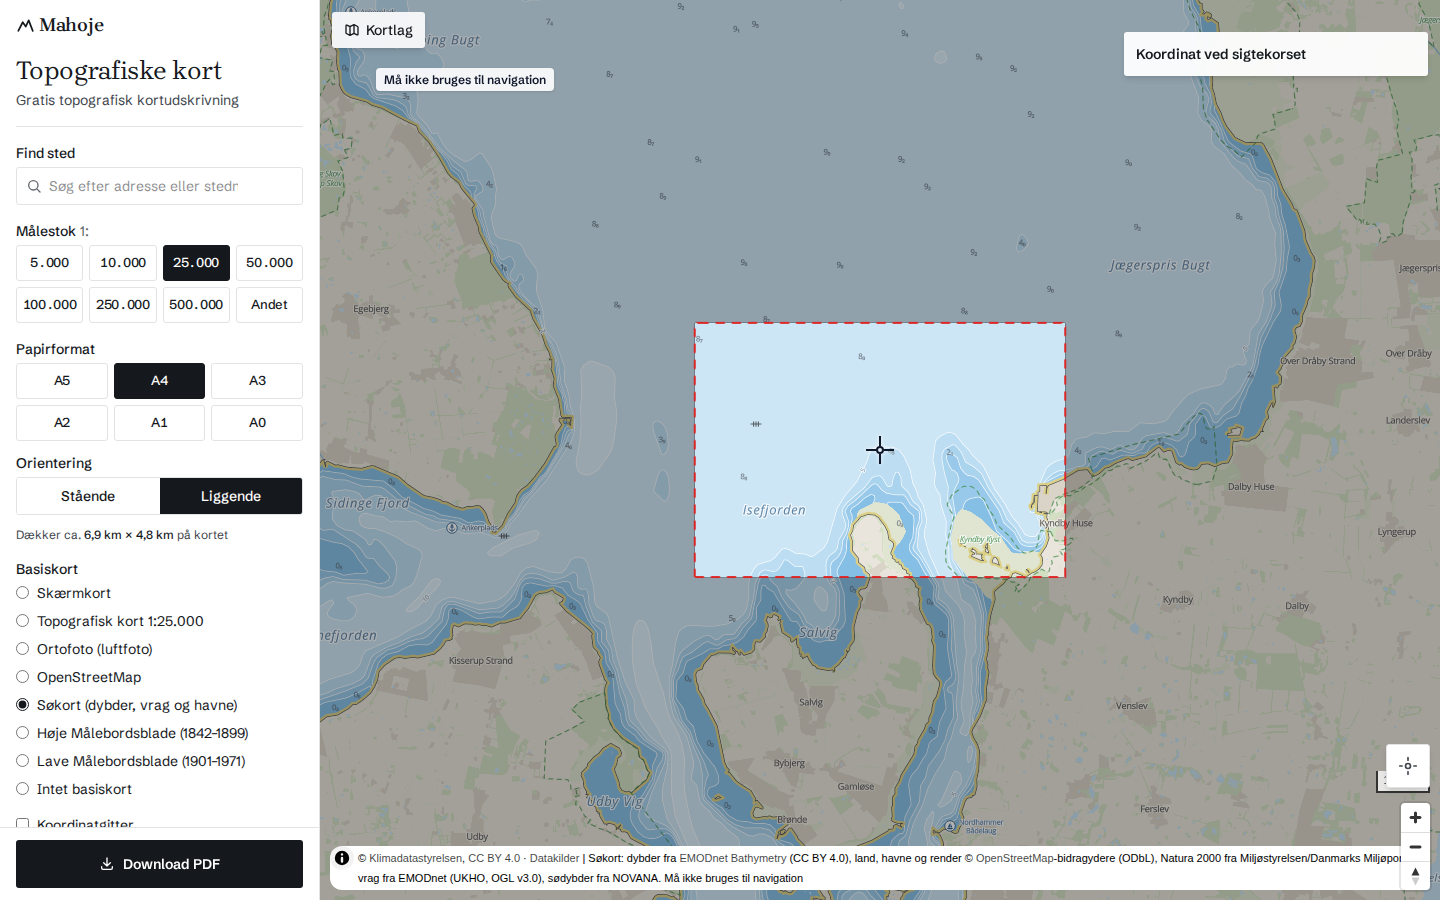
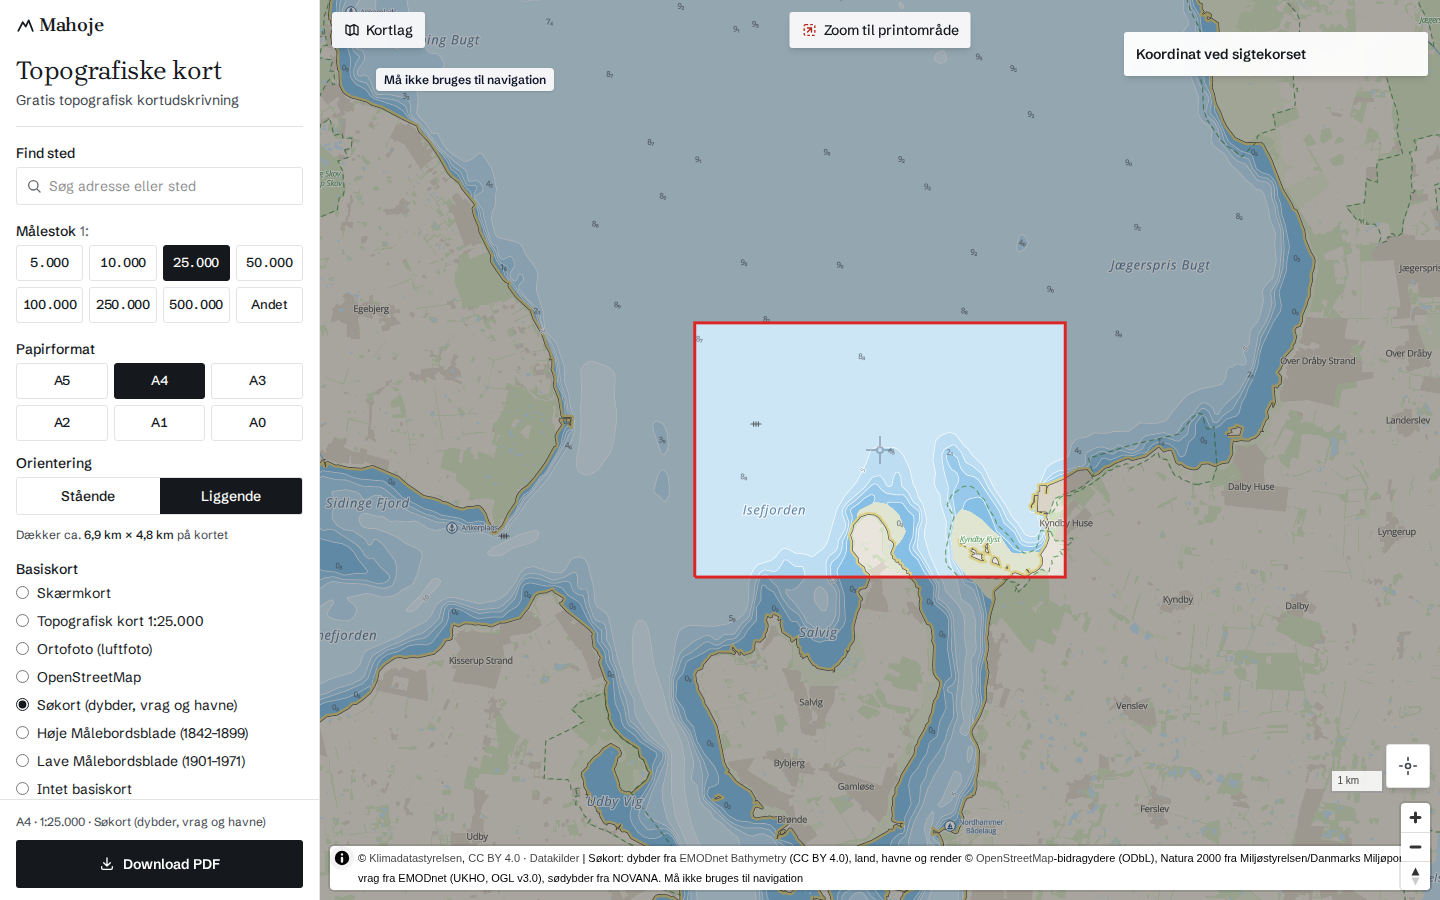
Ret tomme hjørner i dybderasteret og udvid land til nabokysterne
gdalwarp fyldte hjørnerne uden for EMODnet-udtrækket med 0 m, så de blev
gjort til lavt vand og gav en blå stribe ved 58° N. De er nu nodata. Land
og kyst går en grad længere ud, så Sverige og Tyskland er land, når kortet
flyttes forbi dybderne. Skærmbillederne er taget med de nye tiles.

diff --git a/scripts/soekort-vektor/bathy.py b/scripts/soekort-vektor/bathy.py
@@ -66,8 +66,9 @@ def main() -> None:
         elev[elev == nodata] = np.nan
 
     water = ~land
-    # Sea by OSM but land (or nothing) by the model: a shallow fringe.
-    fix = water & ~(elev < -0.05)
+    # Sea by OSM but land by the model: a shallow fringe. Cells without data (the
+    # grid's corners past the downloaded tiles) stay empty; NaN compares False.
+    fix = water & (elev > -0.05)
     elev[fix] = -0.5
     print(f"kystkant rettet: {fix.sum()} celler", flush=True)
 
